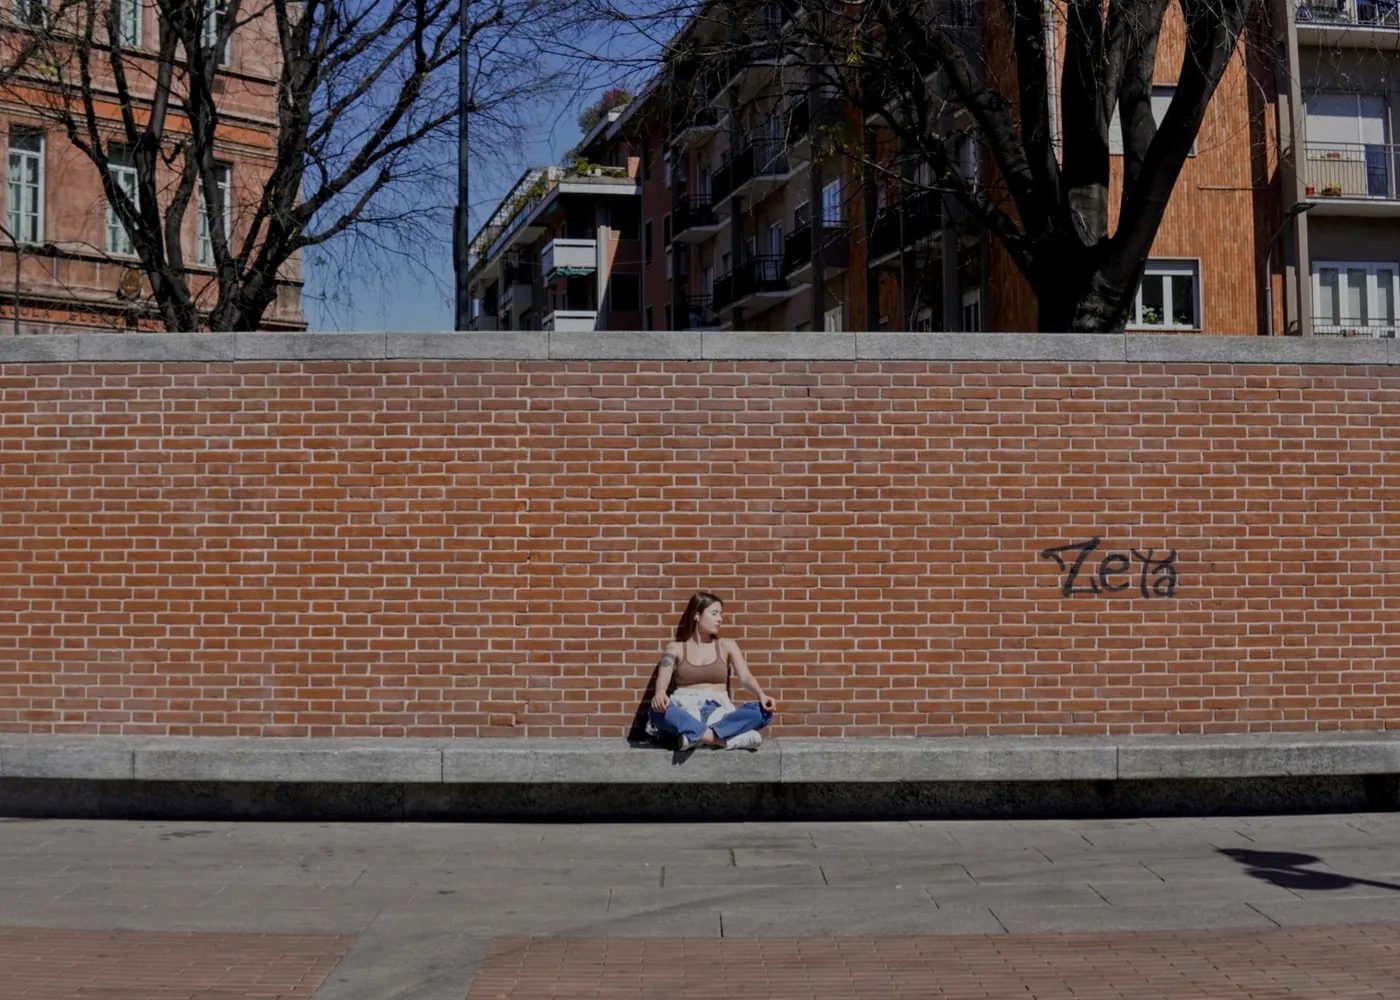
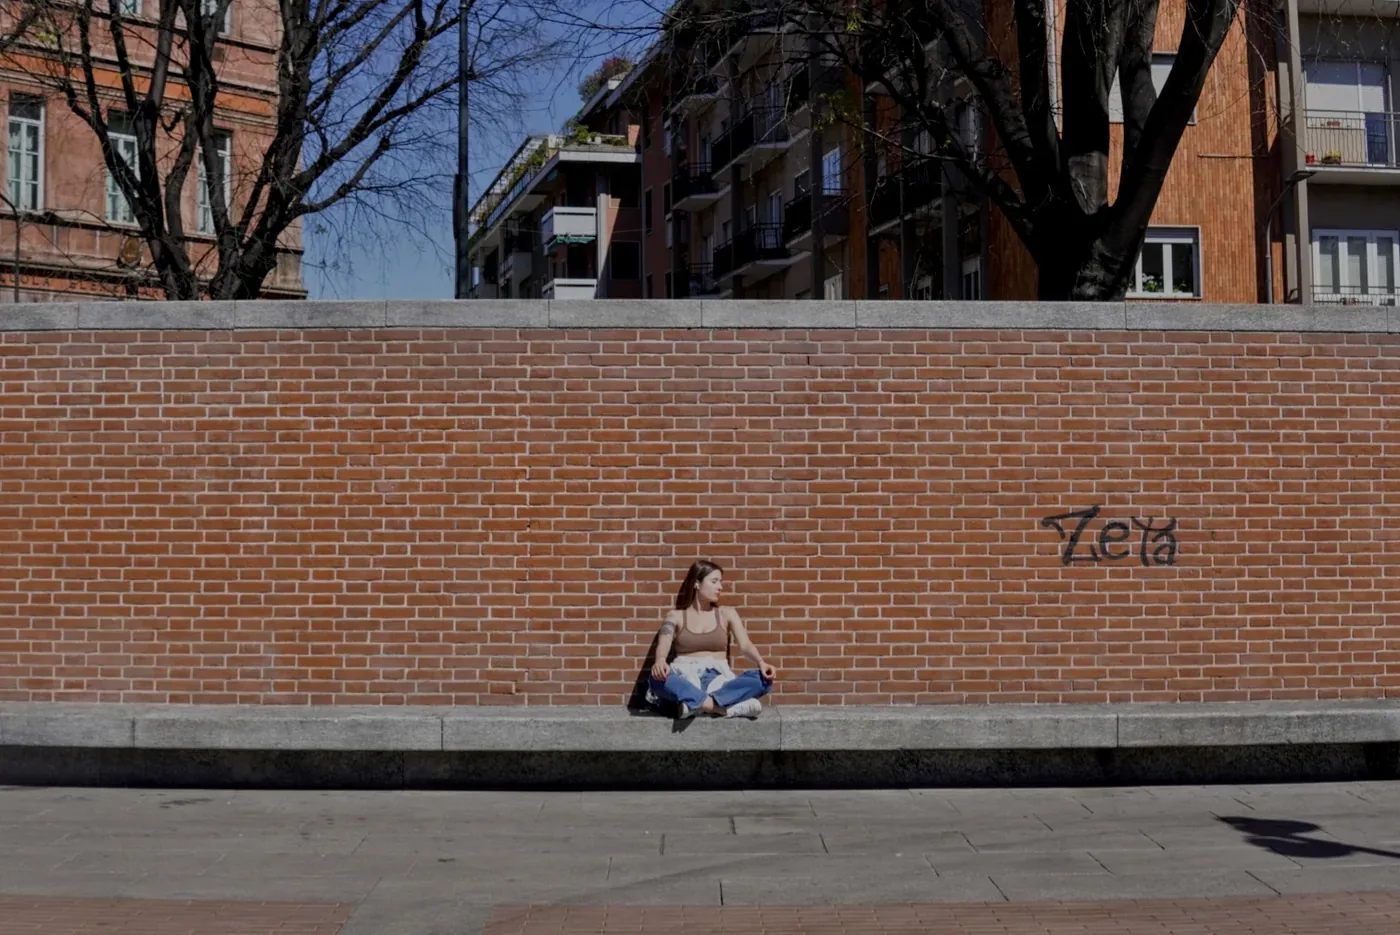
Centre project text, flank carousel with dots, normalise photo sizes
Centre project card descriptions at a 62ch measure instead of
left-aligning them.

Carousel: replace the single dot row below the photo with two vertical
dot columns, three per side, showing the three previous and three next
photos in the cycle; each is clickable and fades with distance. The
stage is now a flex row (dots | arrow | photo | arrow | dots) with
identical side widths, so the photo sits dead centre.

Remove a stale #carousel-image block whose ID selector was overriding
the frame sizing with max-width/max-height and auto dimensions. Crop
Col_9 to 1400x935 so all seven photos share one aspect ratio, and pin
the img aspect-ratio so the frame never changes height between slides.

diff --git a/assets/css/custom.css b/assets/css/custom.css
@@ -519,7 +519,7 @@ a.skip-to-content {
 
 .project-card {
   width: 100%;
-  text-align: left;
+  text-align: center;
   padding: 1.45rem 1.85rem;
   background: var(--bg-surface);
   border: 1.5px solid var(--border);
@@ -555,9 +555,11 @@ a.skip-to-content {
 .project-card p {
   color: var(--text-secondary) !important;
   font-size: 0.92rem !important;
-  margin: 0.22rem 0;
+  margin: 0.22rem auto;
   line-height: 1.65;
+  /* Narrow measure, centred in the card rather than hugging the left. */
   max-width: 62ch;
+  text-align: center;
 }
 
 .project-card em { color: var(--text-muted) !important; font-style: italic; }
@@ -609,33 +611,6 @@ a.skip-to-content {
 /* =============================
    PHOTOGRAPHY
 ============================= */
-.photo-carousel {
-  width: 100%;
-  max-width: 820px;
-  margin: 1rem auto;
-  display: flex;
-  justify-content: center;
-  align-items: center;
-}
-
-#carousel-image {
-  max-width: 760px;
-  max-height: 560px;
-  width: auto;
-  height: auto;
-  object-fit: contain;
-  display: block;
-  margin: 0 auto;
-  border-radius: var(--radius-lg);
-  box-shadow: var(--shadow-lg);
-  border: 1.5px solid var(--border);
-}
-
-@media (max-width: 768px) {
-  .photo-carousel { max-width: 100%; }
-  #carousel-image { max-width: 100%; max-height: 400px; }
-}
-
 .photo-caption {
   text-align: center;
   font-size: 0.9rem !important;
@@ -768,22 +743,32 @@ a.skip-to-content {
 
 /* Photo carousel */
 .photo-carousel {
-  /* Frame width plus symmetric room for both arrows, so the image
-     stays optically centred rather than shifted by one of them. */
-  max-width: 822px;
+  width: 100%;
   margin: 0 auto;
 }
 
-/* Arrows anchor to the image only, not to the dots row below it. */
+/* Flex row: dots | arrow | photo | arrow | dots.
+   Both sides are identical in width, so the photo lands dead centre. */
 .carousel-stage {
-  position: relative;
-  padding: 0 21px;
+  display: flex;
+  align-items: center;
+  justify-content: center;
+  gap: 0.85rem;
+}
+
+.carousel-side {
+  display: flex;
+  align-items: center;
+  gap: 0.6rem;
+  flex: 0 0 auto;
 }
 
 .photo-carousel .photo-frame {
-  max-width: none;
+  max-width: 660px;
   width: 100%;
   margin: 0;
+  flex: 0 1 660px;
+  min-width: 0;
 }
 
 /* No hover lift here — it would slide the image out of line with the
@@ -795,6 +780,8 @@ a.skip-to-content {
 
 .photo-frame img {
   transition: opacity 0.25s ease;
+  aspect-ratio: 1400 / 935;
+  object-fit: cover;
 }
 
 .photo-frame img.is-swapping {
@@ -802,10 +789,7 @@ a.skip-to-content {
 }
 
 .carousel-arrow {
-  position: absolute;
-  top: 50%;
-  transform: translateY(-50%);
-  z-index: 2;
+  flex: 0 0 auto;
   display: flex;
   align-items: center;
   justify-content: center;
@@ -826,7 +810,7 @@ a.skip-to-content {
   background: var(--accent);
   border-color: var(--accent);
   color: #fff;
-  transform: translateY(-50%) scale(1.08);
+  transform: scale(1.08);
 }
 
 .carousel-arrow:focus-visible {
@@ -834,34 +818,43 @@ a.skip-to-content {
   outline-offset: 3px;
 }
 
-.carousel-prev { left: 0; }
-.carousel-next { right: 0; }
-
+/* Dot columns stack vertically alongside the photo. */
 .carousel-dots {
   display: flex;
-  justify-content: center;
+  flex-direction: column;
   align-items: center;
-  gap: 0.45rem;
-  margin-top: 1rem;
+  justify-content: center;
+  gap: 0.5rem;
 }
 
 .carousel-dot {
-  width: 8px;
-  height: 8px;
+  width: 9px;
+  height: 9px;
   padding: 0;
   border: none;
   border-radius: 50%;
   background: var(--border);
   cursor: pointer;
-  transition: background 0.2s, transform 0.2s;
+  transition: background 0.2s, transform 0.2s, opacity 0.2s;
 }
 
-.carousel-dot:hover { background: var(--border-hover); }
-
-.carousel-dot.is-active {
+.carousel-dot:hover {
   background: var(--accent);
-  transform: scale(1.35);
+  transform: scale(1.3);
 }
+
+.carousel-dot:focus-visible {
+  outline: 2px solid var(--accent);
+  outline-offset: 2px;
+}
+
+/* Dots fade with distance from the current photo. */
+.carousel-dot.step-1 { opacity: 1; }
+.carousel-dot.step-2 { opacity: 0.66; transform: scale(0.88); }
+.carousel-dot.step-3 { opacity: 0.4; transform: scale(0.76); }
+
+.carousel-dot.step-2:hover,
+.carousel-dot.step-3:hover { opacity: 1; transform: scale(1.3); }
 
 /* Editorial pull-quote */
 .pull-quote {
@@ -908,10 +901,11 @@ a.skip-to-content {
 @media (max-width: 768px) {
   .pull-quote blockquote { font-size: 1rem; }
   .photo-frame { padding: 6px; }
-  .carousel-stage { padding: 0; }
-  .carousel-arrow { width: 36px; height: 36px; font-size: 0.85rem; }
-  .carousel-prev { left: 8px; }
-  .carousel-next { right: 8px; }
+  .carousel-stage { gap: 0.5rem; }
+  .carousel-side { gap: 0.4rem; }
+  .carousel-arrow { width: 34px; height: 34px; font-size: 0.8rem; }
+  .carousel-dots { gap: 0.4rem; }
+  .carousel-dot { width: 7px; height: 7px; }
 }
 
 /* =============================

diff --git a/interests.md b/interests.md
@@ -3,7 +3,7 @@ title: "  Personal"
 permalink: /Personal.html
 ---
 
-<link rel="stylesheet" href="{{ '/assets/css/custom.css?v=32' | relative_url }}">
+<link rel="stylesheet" href="{{ '/assets/css/custom.css?v=33' | relative_url }}">
 {% include nav.html %}
 
 ---
@@ -17,20 +17,24 @@ permalink: /Personal.html
 
   <div class="photo-carousel">
     <div class="carousel-stage">
-      <button class="carousel-arrow carousel-prev" type="button" aria-label="Previous photo">
-        <i class="fas fa-chevron-left"></i>
-      </button>
+      <div class="carousel-side carousel-side-prev">
+        <div class="carousel-dots" id="dots-prev" aria-label="Previous photos"></div>
+        <button class="carousel-arrow carousel-prev" type="button" aria-label="Previous photo">
+          <i class="fas fa-chevron-left"></i>
+        </button>
+      </div>
 
       <figure class="photo-frame">
         <img id="carousel-image" src="assets/css/img/photos/Col_1.webp" alt="Photography by Nikolas Xiros" width="1400" height="935" fetchpriority="high">
       </figure>
 
-      <button class="carousel-arrow carousel-next" type="button" aria-label="Next photo">
-        <i class="fas fa-chevron-right"></i>
-      </button>
+      <div class="carousel-side carousel-side-next">
+        <button class="carousel-arrow carousel-next" type="button" aria-label="Next photo">
+          <i class="fas fa-chevron-right"></i>
+        </button>
+        <div class="carousel-dots" id="dots-next" aria-label="Next photos"></div>
+      </div>
     </div>
-
-    <div class="carousel-dots" id="carousel-dots" role="tablist" aria-label="Choose photo"></div>
   </div>
 
   <figure class="pull-quote">
@@ -52,29 +56,45 @@ permalink: /Personal.html
     'Bl_2.webp'
   ].map(function (f) { return base + f; });
 
+  const SIDE = 3; // dots shown on each side of the photo
   const img = document.getElementById('carousel-image');
-  const dotsWrap = document.getElementById('carousel-dots');
+  const prevWrap = document.getElementById('dots-prev');
+  const nextWrap = document.getElementById('dots-next');
   let index = 0;
 
-  const dots = photos.map(function (_, i) {
-    const dot = document.createElement('button');
-    dot.type = 'button';
-    dot.className = 'carousel-dot';
-    dot.setAttribute('role', 'tab');
-    dot.setAttribute('aria-label', 'Photo ' + (i + 1) + ' of ' + photos.length);
-    dot.addEventListener('click', function () { show(i); });
-    dotsWrap.appendChild(dot);
-    return dot;
-  });
+  function wrap(i) {
+    return (i % photos.length + photos.length) % photos.length;
+  }
+
+  function buildDots(container, offsets) {
+    container.innerHTML = '';
+    offsets.forEach(function (offset) {
+      const target = wrap(index + offset);
+      const dot = document.createElement('button');
+      dot.type = 'button';
+      dot.className = 'carousel-dot';
+      // Nearer photos read as more prominent.
+      dot.classList.add('step-' + Math.min(Math.abs(offset), SIDE));
+      dot.setAttribute('aria-label', 'Go to photo ' + (target + 1) + ' of ' + photos.length);
+      dot.addEventListener('click', function () { show(target); });
+      container.appendChild(dot);
+    });
+  }
+
+  function renderDots() {
+    // Left column counts back from the photo, right column counts forward.
+    buildDots(prevWrap, [-3, -2, -1]);
+    buildDots(nextWrap, [1, 2, 3]);
+  }
 
   // Warm the neighbours so arrow clicks feel instant.
   function preload(i) {
     const pre = new Image();
-    pre.src = photos[(i + photos.length) % photos.length];
+    pre.src = photos[wrap(i)];
   }
 
   function show(next) {
-    index = (next + photos.length) % photos.length;
+    index = wrap(next);
     img.classList.add('is-swapping');
     const loader = new Image();
     loader.onload = function () {
@@ -83,11 +103,7 @@ permalink: /Personal.html
     };
     loader.src = photos[index];
 
-    dots.forEach(function (dot, i) {
-      dot.classList.toggle('is-active', i === index);
-      dot.setAttribute('aria-selected', i === index ? 'true' : 'false');
-    });
-
+    renderDots();
     preload(index + 1);
     preload(index - 1);
   }
@@ -102,9 +118,9 @@ permalink: /Personal.html
 
   // Swipe on touch devices.
   let touchX = null;
-  const frame = document.querySelector('.photo-carousel');
-  frame.addEventListener('touchstart', function (e) { touchX = e.changedTouches[0].clientX; }, { passive: true });
-  frame.addEventListener('touchend', function (e) {
+  const stage = document.querySelector('.photo-carousel');
+  stage.addEventListener('touchstart', function (e) { touchX = e.changedTouches[0].clientX; }, { passive: true });
+  stage.addEventListener('touchend', function (e) {
     if (touchX === null) { return; }
     const delta = e.changedTouches[0].clientX - touchX;
     if (Math.abs(delta) > 45) { show(delta < 0 ? index + 1 : index - 1); }

diff --git a/index.md b/index.md
@@ -2,7 +2,7 @@
 title: "Home"
 ---
 
-<link rel="stylesheet" href="{{ '/assets/css/custom.css?v=32' | relative_url }}">
+<link rel="stylesheet" href="{{ '/assets/css/custom.css?v=33' | relative_url }}">
 <link rel="preload" href="https://fonts.googleapis.com/css2?family=Inter:wght@400;600;700&display=swap" as="style" onload="this.onload=null;this.rel='stylesheet'">
 <noscript><link href="https://fonts.googleapis.com/css2?family=Inter:wght@400;600;700&display=swap" rel="stylesheet"></noscript>
 <link rel="stylesheet" href="https://cdnjs.cloudflare.com/ajax/libs/font-awesome/6.4.0/css/all.min.css" media="print" onload="this.media='all'">

diff --git a/about.md b/about.md
@@ -3,7 +3,7 @@ title: "About"
 permalink: /about.html
 ---
 
-<link rel="stylesheet" href="{{ '/assets/css/custom.css?v=32' | relative_url }}">
+<link rel="stylesheet" href="{{ '/assets/css/custom.css?v=33' | relative_url }}">
 
 {% include nav.html %}
 

diff --git a/projects.md b/projects.md
@@ -4,7 +4,7 @@ permalink: /projects.html
 ---
 
 
-<link rel="stylesheet" href="{{ '/assets/css/custom.css?v=32' | relative_url }}">
+<link rel="stylesheet" href="{{ '/assets/css/custom.css?v=33' | relative_url }}">
 
 {% include nav.html %}
 
